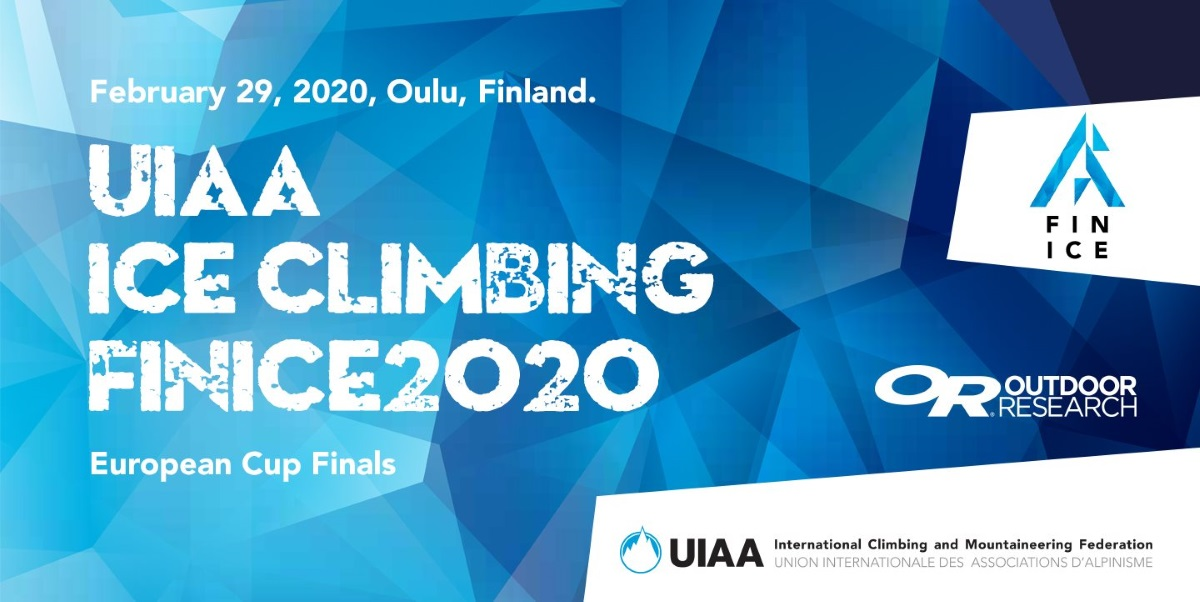
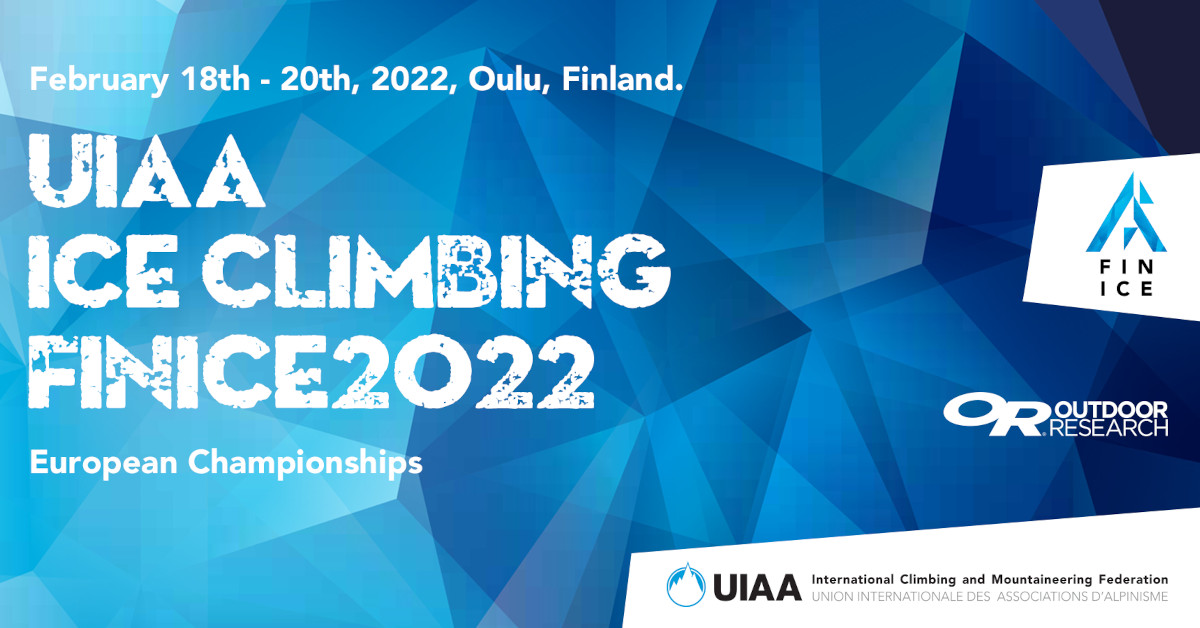
new graphics

diff --git a/_assets/css/main.css b/_assets/css/main.css
@@ -488,7 +488,7 @@ blockquote {
 
 #head-content {
 	position: relative;
-	background: url(../img/header_2020.jpg) 50% 0 no-repeat;
+	background: url(../img/header_2022.png) 50% 0 no-repeat;
 	background-size: cover;
 	padding-top: 50.14%;/*49.091%;*/
 	opacity: 1;
